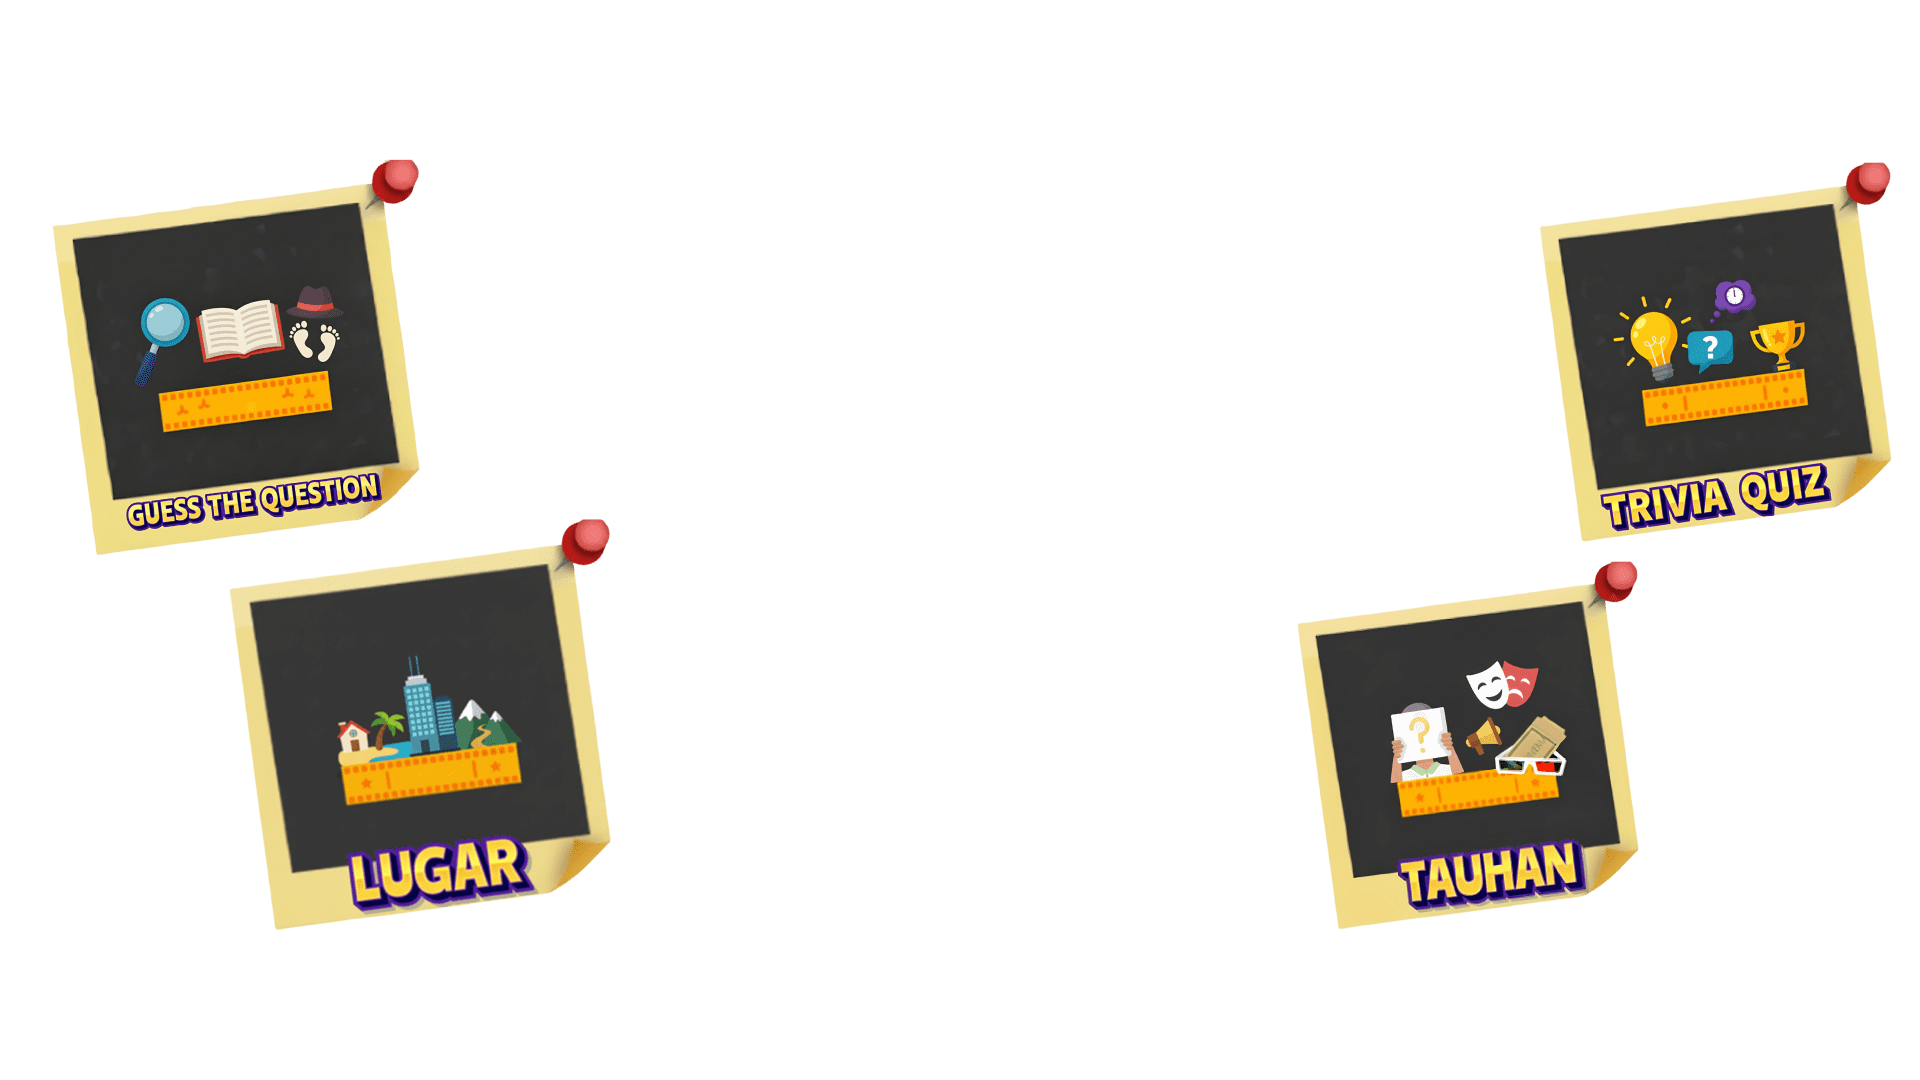
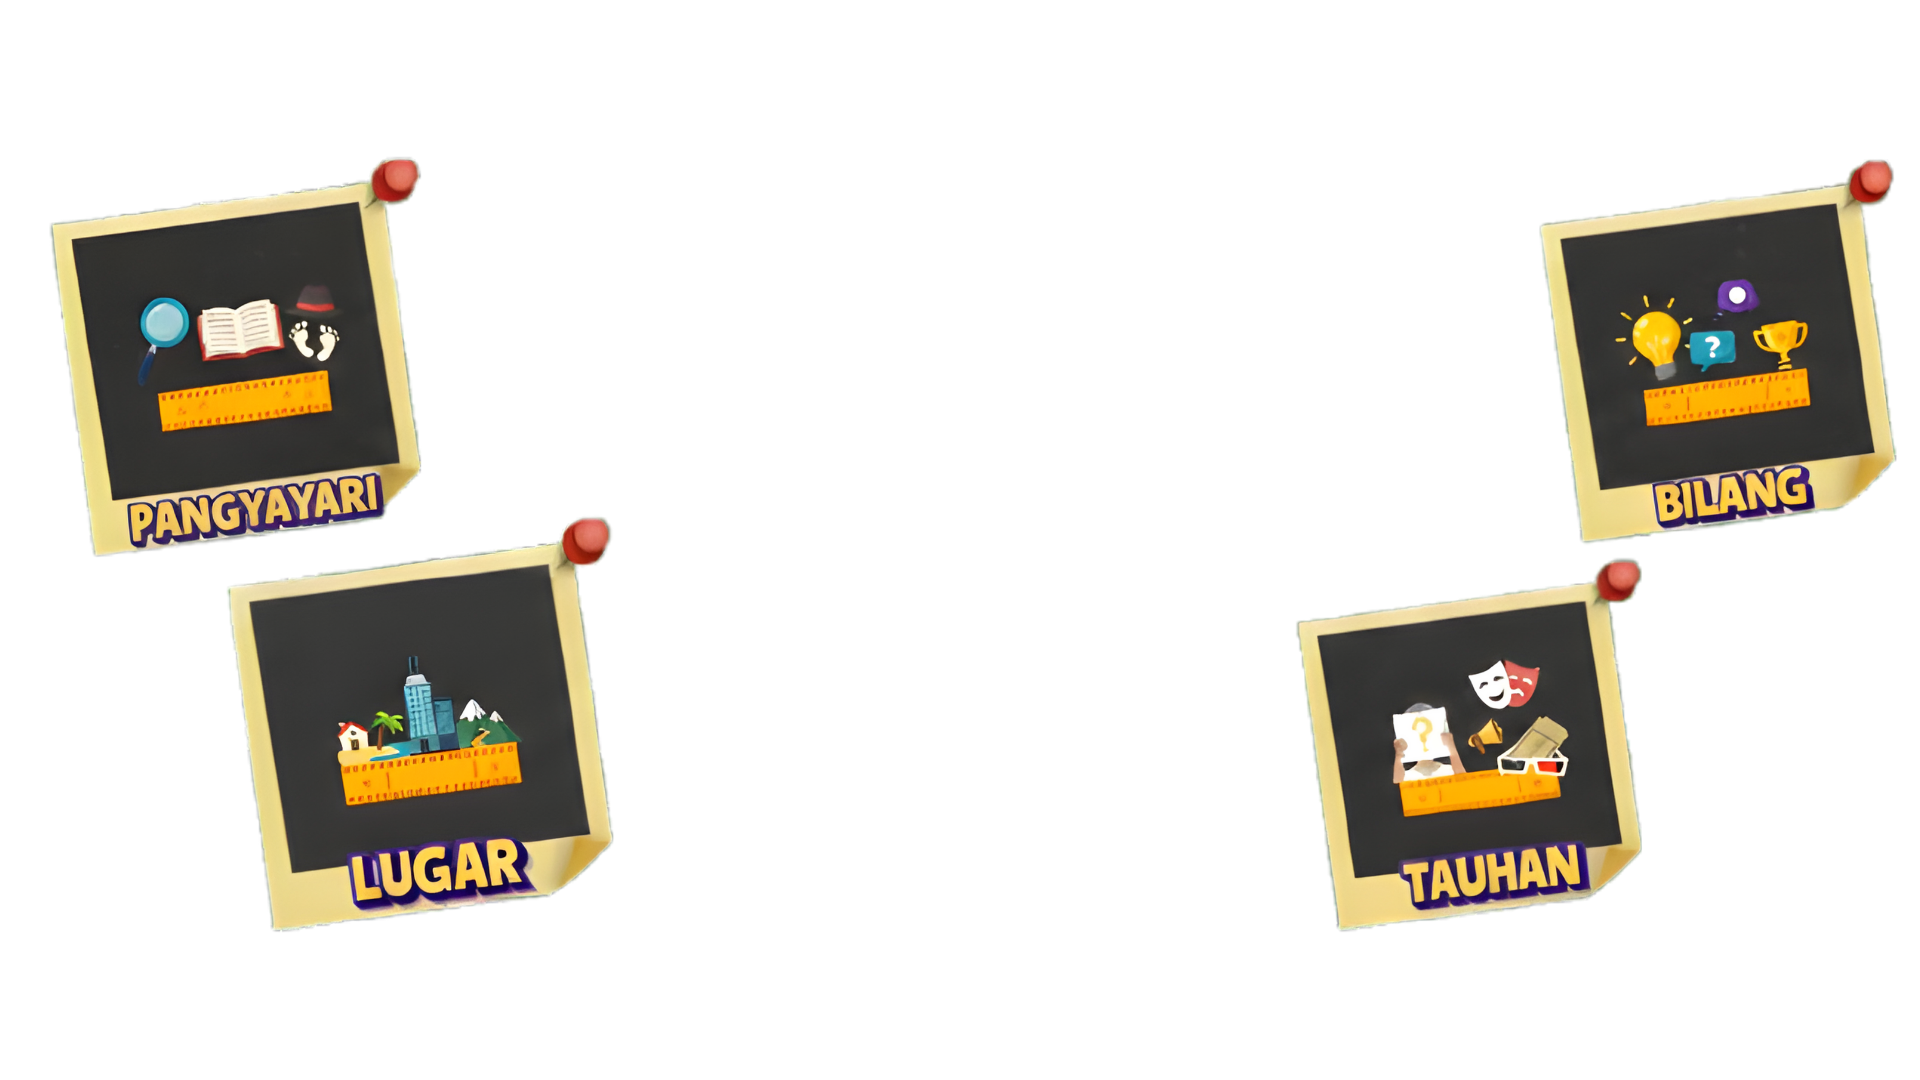
update new img, controller and challenge page  -- 1/17/2026

diff --git a/resources/js/Pages/Challenge/Quiz/page.tsx b/resources/js/Pages/Challenge/Quiz/page.tsx
@@ -218,12 +218,8 @@ export default function Quiz({ kabanataId, kabanata_number, kabanata_title, quiz
             total_questions: selectedQuizzes.length,
             perfect_score: isPerfectScore,
         }, {
-            onSuccess: (response) => {
-                console.log('Quiz completed successfully', response);
-                if (response.props.perfect_score) {
-                    console.log('Perfect score achieved! Guessword and video progress updated.');
-                }
-                router.visit(route('challenge'));
+            onSuccess: () => {
+                console.log('Quiz completed successfully, redirecting...');
             },
             onError: (errors) => {
                 console.error('Failed to complete quiz:', errors);
@@ -240,27 +236,21 @@ export default function Quiz({ kabanataId, kabanata_number, kabanata_title, quiz
             total_questions: selectedQuizzes.length,
             perfect_score: isPerfectScore,
         }, {
-            onSuccess: (response) => {
-                console.log('Quiz completed successfully', response);
+            onSuccess: () => {
+                console.log('Quiz completed successfully');
                 if (isPerfectScore) {
                     console.log('Perfect score achieved!');
-                    
-                    // Use get instead of visit for client-side navigation
-                    router.get(route('challenge', {
-                    showVideo: true,
-                    kabanataId: kabanataId + 1
-                }), {
-                    preserveState: true,
-                    preserveScroll: true
-                });
-
+                    router.visit(route('challenge', {
+                        showVideo: true,
+                        kabanataId: kabanataId + 1
+                    }));
                 } else {
-                    router.get(route('challenge'));
+                    router.visit(route('challenge'));
                 }
             },
             onError: (errors) => {
                 console.error('Failed to complete quiz:', errors);
-                router.get(route('challenge'));
+                router.visit(route('challenge'));
             }
         });
     };

diff --git a/app/Http/Controllers/StudentController.php b/app/Http/Controllers/StudentController.php
@@ -93,7 +93,7 @@ class StudentController extends Controller
         $user->sound = $validated['sound'];
         $user->save();
         
-        // return response()->json(['message' => 'Settings saved successfully']);
+        return back();
     }
 
     public function sendInvite(Request $request)
@@ -272,21 +272,14 @@ class StudentController extends Controller
                 'video_progress_id' => $videoProgress->id
             ]);
 
-            // return response()->json([
-            //     'success' => true, 
-            //     'video_id' => $video->id, 
-            //     'video_progress_id' => $videoProgress->id
-            // ]);
+            return back();
 
         } catch (\Exception $e) {
             Log::error('Error saving video progress: ' . $e->getMessage(), [
                 'trace' => $e->getTraceAsString()
             ]);
 
-            // return response()->json([
-            //     'success' => false,
-            //     'message' => 'Error saving progress: ' . $e->getMessage()
-            // ], 500);
+            return back();
         }
     }
 
@@ -704,7 +697,7 @@ class StudentController extends Controller
             $this->checkAndNotifyImageUnlocks($user, $request->kabanata_id);
         }
 
-        return Inertia::location(route('challenge'));
+        return redirect()->route('challenge');
     }
 
     private function checkAndNotifyImageUnlocks($user, $kabanataId)
@@ -798,7 +791,7 @@ class StudentController extends Controller
             ]);
         }
 
-        // return response()->json(['message' => 'Progress reset successfully'], 200);
+        return response()->json(['success' => true], 200);
     }
 
     public function sample(){
@@ -845,9 +838,9 @@ class StudentController extends Controller
             ->orderBy('created_at', 'desc')
             ->get();
 
-        // return response()->json([
-        //     'notifications' => $notifications
-        // ]);
+        return Inertia::render('Notifications/page', [
+            'notifications' => $notifications
+        ]);
     }
 
     public function markAsRead()
@@ -855,7 +848,7 @@ class StudentController extends Controller
         $user = Auth::user();
         $user->notifications()->update(['is_read' => true]);
 
-        // return response()->json(['success' => true]);
+        return back();
     }
 
     public function sendNotification(Request $request)
@@ -874,7 +867,7 @@ class StudentController extends Controller
             'type' => $request->type ?? 'general',
         ]);
 
-        // return response()->json(['success' => true]);
+        return back();
     }
 
     public function markAsReads(Request $request)
@@ -889,7 +882,7 @@ class StudentController extends Controller
 
         $notification->update(['is_read' => true]);
 
-        // return response()->json(['success' => true]);
+        return back();
     }
 
     public function markAsUnread(Request $request)
@@ -904,7 +897,7 @@ class StudentController extends Controller
 
         $notification->update(['is_read' => false]);
 
-        // return response()->json(['success' => true]);
+        return back();
     }
 
     public function markAllAsRead()
@@ -912,7 +905,7 @@ class StudentController extends Controller
         Notification::where('user_id', Auth::id())
             ->update(['is_read' => true]);
 
-        // return response()->json(['success' => true]);
+        return back();
     }
 
     public function destroy($id)
@@ -923,14 +916,14 @@ class StudentController extends Controller
 
         $notification->delete();
 
-        // return response()->json(['success' => true]);
+        return back();
     }
 
     public function destroyAll()
     {
         Notification::where('user_id', Auth::id())->delete();
 
-        return response()->json(['success' => true]);
+        return back();
     }
 
     public function updateSettings(Request $request)
@@ -945,15 +938,15 @@ class StudentController extends Controller
             'sound' => $validated['sound'],
         ]);
 
-        // return response()->json(['message' => 'Settings updated successfully']);
+        return back();
     }
 
     public function getSettings()
     {
         $user = Auth::user();
-        // return response()->json([
-        //     'music' => $user->music ?? 40,
-        //     'sound' => $user->sound ?? 70,
-        // ]);
+        return response()->json([
+            'music' => $user->music ?? 40,
+            'sound' => $user->sound ?? 70,
+        ]);
     }
 }
